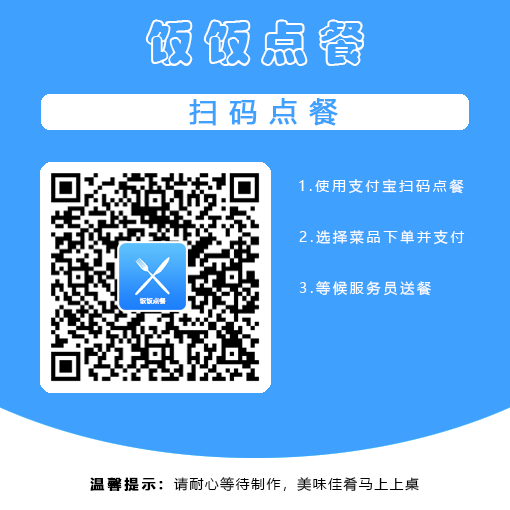
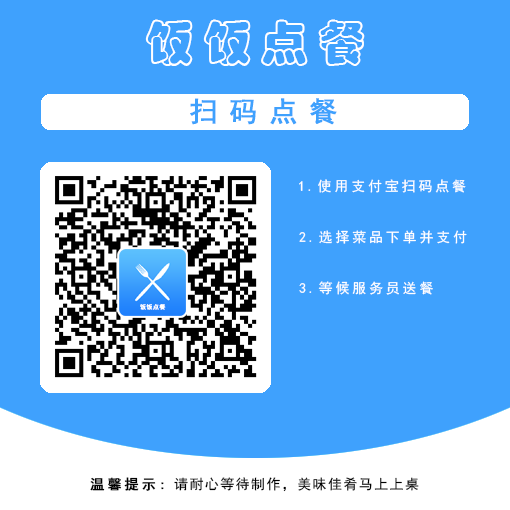
bug

diff --git a/src/main/resources/templates/fanfan/qrcode/qrcode.html b/src/main/resources/templates/fanfan/qrcode/qrcode.html
@@ -66,7 +66,7 @@
 			<div style="position: absolute;z-index: 1;background: red;width: 231px;height: 233px; top: 160px;left: 40px;overflow: hidden;">
 				<img src="/img/img_code.png" id="img-code" style="width: 250px;position: absolute;top: -8px;left: -8px;"/>
 			</div>
-			<img src="/img/img_code_icon.png"style="width: 45px;position: absolute;z-index: 2;top: 255px;left: 130px;"/>
+			<img src="/img/img_code_icon.png"style="width: 48px;position: absolute;z-index: 2;top: 255px;left: 132.5px;"/>
 		</div>
 	</script>
 	<!--下载图片 -->

diff --git a/src/main/java/com/bootdo/common/aspect/WebLogAspect.java b/src/main/java/com/bootdo/common/aspect/WebLogAspect.java
@@ -18,7 +18,7 @@ public class WebLogAspect {
 
     private static final Logger logger = LoggerFactory.getLogger(WebLogAspect.class);
 
-    @Pointcut("execution( * com.bootdo..controller.*.*(..))")//两个..代表所有子目录，最后括号里的两个..代表所有参数
+    @Pointcut("execution( * com.bootdo..*Controller.*(..))")//两个..代表所有子目录，最后括号里的两个..代表所有参数
     public void logPointCut() {
     }
 
@@ -27,18 +27,19 @@ public class WebLogAspect {
     public void doBefore(JoinPoint joinPoint) throws Throwable {
         // 接收到请求，记录请求内容
         ServletRequestAttributes attributes = (ServletRequestAttributes) RequestContextHolder.getRequestAttributes();
-        HttpServletRequest request = attributes.getRequest();
+        if (attributes != null) {
+            HttpServletRequest request = attributes.getRequest();
 
-        // 记录下请求内容
-        logger.info("请求地址 : " + request.getRequestURL().toString());
-        logger.info("HTTP METHOD : " + request.getMethod());
-        // 获取真实的ip地址
-        //logger.info("IP : " + IPAddressUtil.getClientIpAddress(request));
-        logger.info("CLASS_METHOD : " + joinPoint.getSignature().getDeclaringTypeName() + "."
-                + joinPoint.getSignature().getName());
-        logger.info("参数 : " + Arrays.toString(joinPoint.getArgs()));
+            // 记录下请求内容
+            logger.info("请求地址 : " + request.getRequestURL().toString());
+            logger.info("HTTP METHOD : " + request.getMethod());
+            // 获取真实的ip地址
+            //logger.info("IP : " + IPAddressUtil.getClientIpAddress(request));
+            logger.info("CLASS_METHOD : " + joinPoint.getSignature().getDeclaringTypeName() + "."
+                    + joinPoint.getSignature().getName());
+            logger.info("参数 : " + Arrays.toString(joinPoint.getArgs()));
 //        loggger.info("参数 : " + joinPoint.getArgs());
-
+        }
     }
 
     @AfterReturning(returning = "ret", pointcut = "logPointCut()")// returning的值和doAfterReturning的参数名一致

diff --git a/src/main/java/com/bootdo/BootdoApplication.java b/src/main/java/com/bootdo/BootdoApplication.java
@@ -1,9 +1,13 @@
 package com.bootdo;
 
+import com.bootdo.fanfan.manager.TemplateMsgManager;
+import com.bootdo.fanfan.manager.XGPushManager;
 import org.mybatis.spring.annotation.MapperScan;
+import org.springframework.beans.factory.annotation.Autowired;
 import org.springframework.boot.SpringApplication;
 import org.springframework.boot.autoconfigure.SpringBootApplication;
 import org.springframework.boot.web.servlet.ServletComponentScan;
+import org.springframework.context.ConfigurableApplicationContext;
 import org.springframework.context.annotation.ComponentScan;
 import org.springframework.transaction.annotation.EnableTransactionManagement;
 @EnableTransactionManagement
@@ -11,8 +15,13 @@ import org.springframework.transaction.annotation.EnableTransactionManagement;
 @MapperScan("com.bootdo.*.dao")
 @SpringBootApplication
 public class BootdoApplication {
+
+    @Autowired
+    TemplateMsgManager msgManager;
+
     public static void main(String[] args) {
-        SpringApplication.run(BootdoApplication.class, args);
+
+        ConfigurableApplicationContext applicationContext = SpringApplication.run(BootdoApplication.class, args);
         System.out.println("ヾ(◍°∇°◍)ﾉﾞ    bootdo启动成功      ヾ(◍°∇°◍)ﾉﾞ\n" +
                 " ______                    _   ______            \n" +
                 "|_   _ \\                  / |_|_   _ `.          \n" +
@@ -20,5 +29,14 @@ public class BootdoApplication {
                 "  |  __'. / .'`\\ \\/ .'`\\ \\| |   | |  | |/ .'`\\ \\ \n" +
                 " _| |__) || \\__. || \\__. || |, _| |_.' /| \\__. | \n" +
                 "|_______/  '.__.'  '.__.' \\__/|______.'  '.__.'  ");
+
+        //启动任务
+        TemplateMsgManager msgManager = applicationContext.getBean(TemplateMsgManager.class);
+        msgManager.startThread(1);
+        System.out.println("启动TemplageMsgManager成功");
+
+        XGPushManager xgPushManager = applicationContext.getBean(XGPushManager.class);
+        msgManager.startThread(1);
+        System.out.println("启动XGPushManager成功");
     }
 }

diff --git a/src/main/java/com/bootdo/fanfan/web/api/ConcatRestController.java b/src/main/java/com/bootdo/fanfan/web/api/ConcatRestController.java
@@ -1,5 +1,6 @@
 package com.bootdo.fanfan.web.api;
 
+import com.alibaba.fastjson.JSONObject;
 import com.bootdo.common.extend.EMapper;
 import com.bootdo.common.utils.R;
 import com.bootdo.fanfan.domain.ContactDO;
@@ -7,11 +8,18 @@ import com.bootdo.fanfan.domain.ReceiverDO;
 import com.bootdo.fanfan.service.ContactService;
 import com.bootdo.fanfan.vo.APIConcatVO;
 import com.bootdo.fanfan.vo.APIReceiverVO;
+import com.google.common.io.CharStreams;
 import org.springframework.beans.factory.annotation.Autowired;
 import org.springframework.web.bind.annotation.PostMapping;
 import org.springframework.web.bind.annotation.RequestBody;
 import org.springframework.web.bind.annotation.RequestMapping;
 import org.springframework.web.bind.annotation.RestController;
+
+import javax.servlet.http.HttpServletRequest;
+import java.io.BufferedInputStream;
+import java.io.BufferedReader;
+import java.io.IOException;
+import java.io.InputStreamReader;
 
 /**
  * @author: JY
@@ -29,16 +37,13 @@ public class ConcatRestController extends ApiBaseRestController {
 
     /**
      * 保存收货地址
-     * @param concatVO
+     * @param
      * @return
      */
     @PostMapping("/")
-    public R save(@RequestBody APIConcatVO concatVO){
-
+    public R save(APIConcatVO concatVO){
         ContactDO contactDO  = eMapper.map(concatVO,ContactDO.class);
-
         contactService.save(contactDO);
-
         return R.ok();
     }
 

diff --git a/src/main/java/com/bootdo/common/msgQueue/AbstractMsgQueue.java b/src/main/java/com/bootdo/common/msgQueue/AbstractMsgQueue.java
@@ -68,8 +68,6 @@ public abstract class AbstractMsgQueue<T> implements MsgQueue<T> {
         threadPoolExecutor = new ThreadPoolExecutor(threadCoreSize,threadPoolSize,30, TimeUnit.SECONDS,linkedQueueRunnable);
         //销毁超时线程
         threadPoolExecutor.allowCoreThreadTimeOut(true);
-        //初始启动消费任务
-        startThread(minActiveThread);
     }
 
     /**
@@ -118,7 +116,7 @@ public abstract class AbstractMsgQueue<T> implements MsgQueue<T> {
     public synchronized int startThread(int size){
 
         //执行任务
-        for(int i=0;i<size;i++) {
+        for(int i=0;i<minActiveThread;i++) {
             //线程池中添加线程
             System.out.println("活动线程数："+threadPoolExecutor.getActiveCount()+" 线程大小："+threadPoolExecutor.getMaximumPoolSize());
             if(threadPoolExecutor.getActiveCount()==0 || threadPoolExecutor.getActiveCount() < threadPoolExecutor.getMaximumPoolSize()) {

diff --git a/src/test/java/com/bootdo/testDemo/TestCommodity.java b/src/test/java/com/bootdo/testDemo/TestCommodity.java
@@ -9,6 +9,7 @@ import org.springframework.boot.test.context.SpringBootTest;
 import org.springframework.test.context.junit4.SpringRunner;
 import org.springframework.web.bind.annotation.RestController;
 
+import java.util.ArrayList;
 import java.util.HashMap;
 import java.util.List;
 import java.util.Map;
@@ -36,5 +37,17 @@ public class TestCommodity {
         List<CommodityWidthExtendDO> list = commodityService.listExtend(_map);
 
         System.out.println(list.toString());
+    }
+
+    @Test
+    public void extenList(){
+
+        List<Integer> idArrays = new ArrayList<>();
+        idArrays.add(14);
+
+        List<CommodityWidthExtendDO> list = commodityService.queryByIdArray(idArrays);
+
+        System.out.println(list);
+
     }
 }

diff --git a/src/main/java/com/bootdo/fanfan/web/api/ApiBaseRestController.java b/src/main/java/com/bootdo/fanfan/web/api/ApiBaseRestController.java
@@ -25,10 +25,6 @@ public class ApiBaseRestController {
     private void headerAttribute(@RequestHeader(name = "base",required = false) String base, HttpServletResponse response) throws IOException {
         if(!StringUtils.isEmpty(base)) {
             APIBaseVO baseModel = JSONObject.parseObject(base, APIBaseVO.class);
-//            if(!checkSign(baseModel)){
-//                response.sendError(500,"签名失败");
-//                return;
-//            }
             local.set(baseModel);
         }
     }

diff --git a/src/main/java/com/bootdo/fanfan/service/impl/CommodityServiceImpl.java b/src/main/java/com/bootdo/fanfan/service/impl/CommodityServiceImpl.java
@@ -82,7 +82,7 @@ public class CommodityServiceImpl implements CommodityService {
 
 	/**
 	 * 根据Id集合查询商品
-	 * @param idArry
+	 * @param idArray
 	 * @return
 	 */
 	@Override
